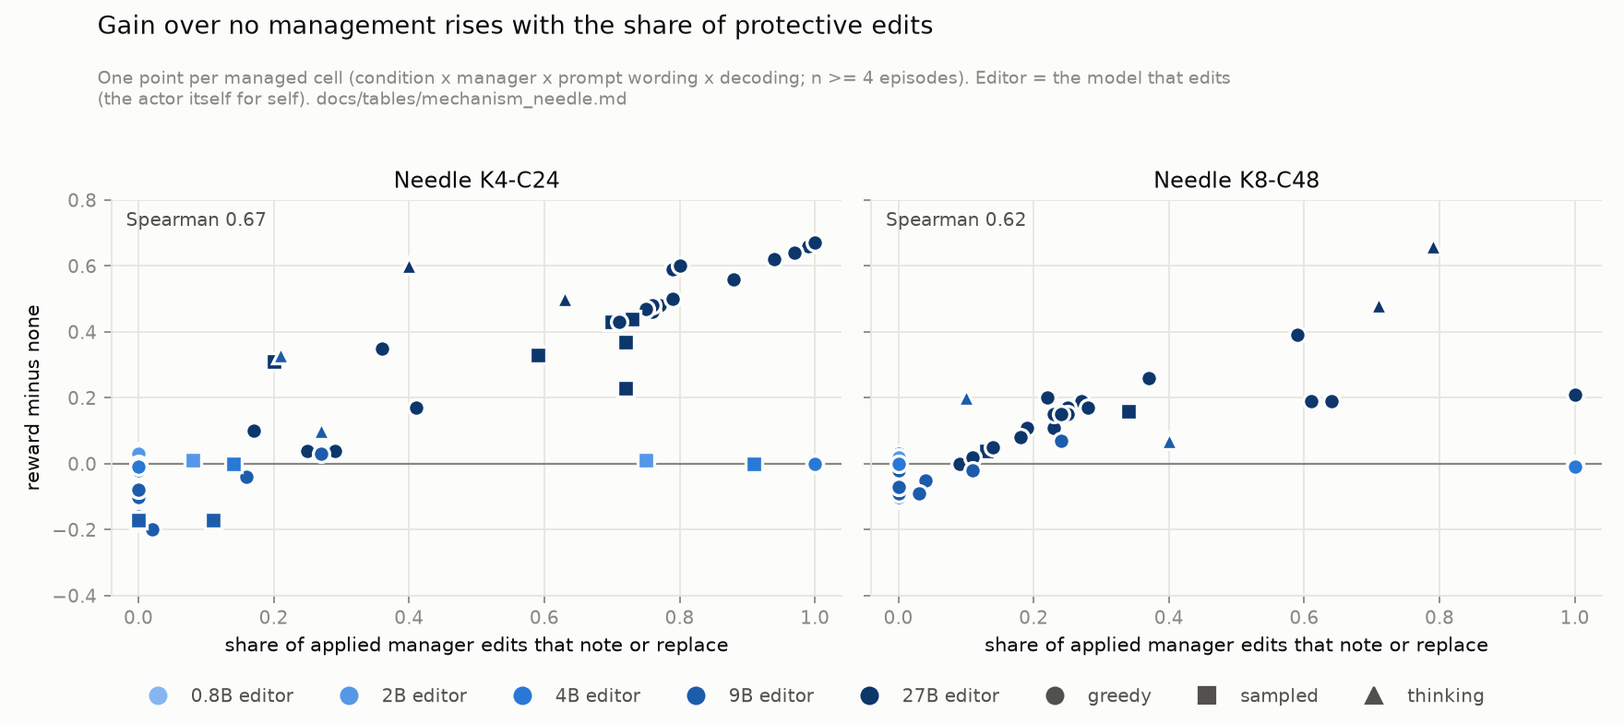
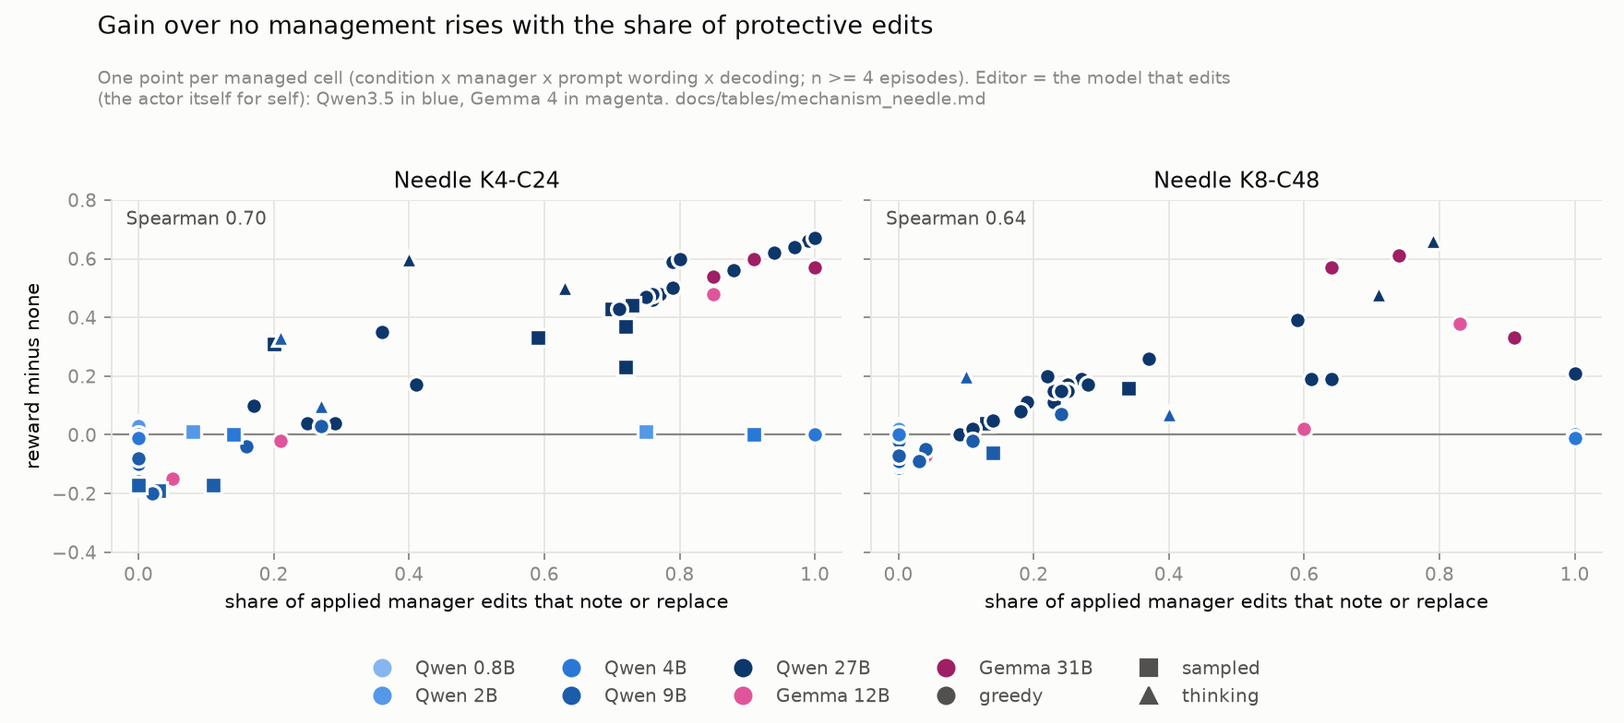
Score round 31: Gemma 4 manager ladder, G1-G5 confirmed
Gemma 4 31B helps the 2B actor under all three wordings at both levels
(+0.54 to +0.60 at K4-C24, +0.33 to +0.61 at K8-C48); the 12B does not by
the registered median rule, but helps under para3 (+0.48 / +0.38, 8/0).
Gain still tracks the protective share with both families pooled
(Spearman 0.70 / 0.64). Adds finding 10, the v4 verdicts, the episodes to
all tables, and Gemma to the mechanism figure. Smoke runs are kept out
of the ladder cells (runs_smoke/, git-ignored).

diff --git a/scripts/plot_mechanism.py b/scripts/plot_mechanism.py
@@ -3,8 +3,9 @@
 Usage: python scripts/plot_mechanism.py OUT.png
 Reads docs/tables/mechanism_needle.md (built by scripts/mechanism_table.py). x = share of applied
 manager events that `note` or `replace` (keep needles while removing their block), y = mean reward -
-`none`. Color = size of the model that edits (the actor itself for `self`), an ordinal blue ramp;
-shape = decoding (greedy, sampled, manager thinking). Cells with n < 4 or no applied edit are left out.
+`none`. Color = the model that edits (the actor itself for `self`): Qwen3.5 sizes on an ordinal blue
+ramp, Gemma 4 sizes on a magenta pair; shape = decoding (greedy, sampled, manager thinking). Cells
+with n < 4 or no applied edit are left out.
 """
 
 import sys
@@ -18,9 +19,17 @@ from matplotlib.lines import Line2D
 from mechanism_table import LEVELS
 
 INK, SECONDARY, MUTED, GRID, SURFACE = "#0b0b0b", "#52514e", "#898781", "#e6e5e0", "#fcfcfb"
-RAMP = {"0.8B": "#86b6ef", "2B": "#5598e7", "4B": "#2a78d6", "9B": "#1c5cab", "27B": "#0d366b"}
+RAMP = {"0.8B": "#86b6ef", "2B": "#5598e7", "4B": "#2a78d6", "9B": "#1c5cab", "27B": "#0d366b",
+        "Gemma 12B": "#e0559a", "Gemma 31B": "#9e1f63"}  # fmt: skip
 SHAPES = {"greedy": "o", "sampled": "s", "thinking": "^"}
 TABLE = "docs/tables/mechanism_needle.md"
+
+
+def editor_label(editor):
+    """'Qwen3.5-27B-FP8' -> '27B'; 'gemma-4-31B-it' -> 'Gemma 31B'."""
+    if editor.startswith("gemma-4-"):
+        return "Gemma " + editor.removeprefix("gemma-4-").removesuffix("-it")
+    return editor.removeprefix("Qwen3.5-").removesuffix("-FP8")
 
 
 def cells(path=TABLE):
@@ -38,7 +47,7 @@ def cells(path=TABLE):
         out.append(
             {
                 "level": level,
-                "size": editor.removeprefix("Qwen3.5-").removesuffix("-FP8"),
+                "size": editor_label(editor),
                 "style": "thinking" if version.endswith("+think") else decoding,
                 "gain": float(c[8]),
                 "protective": float(c[9]),
@@ -79,16 +88,16 @@ for ax, level in zip(axes, LEVELS, strict=True):
 axes[0].set_ylabel("reward minus none", fontsize=9.5, color=INK)
 
 legend = [
-    Line2D([], [], marker="o", ls="none", ms=8, color=c, label=f"{s} editor")
+    Line2D([], [], marker="o", ls="none", ms=8, color=c, label=s if "Gemma" in s else f"Qwen {s}")
     for s, c in RAMP.items()
 ] + [Line2D([], [], marker=m, ls="none", ms=8, color=SECONDARY, label=s) for s, m in SHAPES.items()]
-fig.legend(handles=legend, loc="lower center", ncol=8, frameon=False, fontsize=9,
+fig.legend(handles=legend, loc="lower center", ncol=5, frameon=False, fontsize=9,
            labelcolor=SECONDARY, bbox_to_anchor=(0.5, 0.0))  # fmt: skip
 fig.suptitle("Gain over no management rises with the share of protective edits", fontsize=12,
              color=INK, x=0.06, ha="left")  # fmt: skip
 fig.text(0.06, 0.905, "One point per managed cell (condition x manager x prompt wording x decoding; "
-         "n >= 4 episodes). Editor = the model that edits\n(the actor itself for self). "
-         "docs/tables/mechanism_needle.md", fontsize=8.5, color=MUTED, ha="left", va="top")  # fmt: skip
-fig.tight_layout(rect=(0, 0.06, 1, 0.86))
+         "n >= 4 episodes). Editor = the model that edits\n(the actor itself for self): Qwen3.5 "
+         "in blue, Gemma 4 in magenta. docs/tables/mechanism_needle.md", fontsize=8.5, color=MUTED, ha="left", va="top")  # fmt: skip
+fig.tight_layout(rect=(0, 0.12, 1, 0.86))
 fig.savefig(sys.argv[1], dpi=160, facecolor=SURFACE)
 print("wrote", sys.argv[1])

diff --git a/docs/results.md b/docs/results.md
@@ -8,7 +8,7 @@ and `peer_<size>` (a fixed manager of another size; mainly `peer_27b`). Managers
 (zero-shot). Each cell has 8 seeds (42–49) unless noted; differences are paired on the same instance.
 Greedy decoding with thinking off unless noted.
 
-Sources: `docs/tables/episodes_vllm.csv` (2,936 episodes), `docs/tables/h200_bf16_pooled.md` (greedy
+Sources: `docs/tables/episodes_vllm.csv` (3,066 episodes), `docs/tables/h200_bf16_pooled.md` (greedy
 grid), `docs/tables/decoding_ablation.md` (greedy vs sampled), `docs/tables/cost_needle.md` (compute
 per episode), `docs/tables/termination_needle.md` (how episodes end; reward = delivered × kept),
 `docs/figures/`. Run log: `CLAUDE.md`.
@@ -104,7 +104,7 @@ points are in "Limits" at the end.
 
 6. **Pre-registered validation: v1 had none falsified, most informative tests inconclusive; v2 had
    two falsified by the 27B actor's output-cap loop; v3 (a replay probe of that loop) had one
-   falsified.** Ten predictions were committed (`docs/preregistration.md`, tag `prereg-v1`) before new seeds (50–65)
+   falsified; v4 (the Gemma 4 ladder) had all five confirmed.** Ten predictions were committed (`docs/preregistration.md`, tag `prereg-v1`) before new seeds (50–65)
    and two held-out levels: 7 confirmed, 3 inconclusive, 0 falsified
    (`docs/preregistration-results.md`). Five were structural guards that could hardly fail (P2: `self`
    equals `none`; P3/P6: `none` is 0 at KV R1000 by construction; P7: archived needles cannot count
@@ -146,6 +146,19 @@ points are in "Limits" at the end.
    - Exploratory: a reminder that names the output cap gets 9/16 replies out. None of the
      pre-listed fixes removes the loop, so no P11b episode run follows; only more output room does,
      and that changes the benchmark's 2,048-token reserve.
+
+   Pre-registration v4 (`docs/preregistration-v4.md`, round 31, Gemma 4 managers; finding 10) had all
+   five predictions confirmed:
+   - **G1 confirmed:** the 31B's K4-C24 median over wordings is +0.57; sign p < 0.05 in 2 of 3
+     wordings (`para3` 7/1, p = 0.07).
+   - **G2 confirmed:** the 31B's K8-C48 median is +0.57.
+   - **G3 confirmed as registered:** the 12B's median is −0.02 (K4) and +0.02 (K8). The median rule
+     hides the `para3` cell, where the 12B gains +0.48 / +0.38 (8/0). The falsification rule needed
+     two such wordings.
+   - **G4 confirmed:** with Gemma cells pooled in, Spearman(protective share, gain) is 0.70 (72
+     cells) and 0.64 (61).
+   - **G5 confirmed:** the 31B is above the 12B in protective share in 6 of 6 wording × level pairs,
+     and in reward in 5 of 6 (K8 `para3`: 0.48 vs 0.53).
 
 7. **Manager-size ladder: without thinking only the 27B manager helps, under seven prompt wordings;
    with thinking both 9B and 27B help, and 27B stays ahead.** Needle, greedy, 8 seeds, `none` rerun
@@ -282,9 +295,9 @@ points are in "Limits" at the end.
 9. **Across every managed cell, the gain over `none` tracks how often the manager protects needles
    when it edits.** For each Needle cell (condition × manager × prompt wording × decoding, n ≥ 4),
    the share of applied manager events that `note` or `replace` (the two ways to keep needles while
-   removing their block) correlates with reward − `none`: Spearman 0.67 over 65 cells at K4-C24 and
-   0.62 over 54 at K8-C48 (`docs/tables/mechanism_needle.md`,
-   `docs/figures/needle_protective_vs_gain.png`). The 27B cells lie close to one line, from
+   removing their block) correlates with reward − `none`: Spearman 0.67 over 65 Qwen cells at K4-C24
+   and 0.62 over 54 at K8-C48, and 0.70 over 72 / 0.64 over 61 with the Gemma cells added (finding
+   10; `docs/tables/mechanism_needle.md`, `docs/figures/needle_protective_vs_gain.png`). The 27B cells lie close to one line, from
    `example` (0.25 protective, +0.04) to `para3` (1.00, +0.67); 9B and smaller managers sit at 0–0.04
    protective. Protecting is necessary, not sufficient: the 4B self-manager and the 0.8B `peer_same`
    add notes but never delete (0 delete events), so every episode ends at the budget wall and they
@@ -293,6 +306,41 @@ points are in "Limits" at the end.
    block's needles were noted in an earlier event, so it may understate protection there.
    Paired differences with seed-level bootstrap CIs for every cell are in
    `docs/tables/paired_needle.md`.
+
+10. **A second manager family (Gemma 4) replicates the size ordering and the mechanism, but its
+    mid-size manager helps under one of three wordings.** Gemma 4 12B and 31B as fixed managers for
+    the 2B actor, Needle, greedy, thinking off, 8 seeds, edit-v8 / `para3` / `para4` (round 31,
+    pre-registration v4). Reward, with `peer` − `none` paired by seed:
+
+    | manager | wording | K4-C24 | K8-C48 | protective share (K4 / K8) |
+    |---|---|---|---|---|
+    | Gemma 31B | v8 | 0.94, +0.60 (8/0) | 0.71, +0.57 (8/0) | 0.91 / 0.64 |
+    | Gemma 31B | `para3` | 0.90, +0.57 (7/1) | 0.48, +0.33 (7/1) | 1.00 / 0.91 |
+    | Gemma 31B | `para4` | 0.87, +0.54 (8/0) | 0.75, +0.61 (8/0) | 0.85 / 0.74 |
+    | Gemma 12B | v8 | 0.32, −0.02 (4/4) | 0.16, +0.02 (1/0) | 0.21 / 0.60 |
+    | Gemma 12B | `para3` | 0.82, +0.48 (8/0) | 0.53, +0.38 (8/0) | 0.85 / 0.83 |
+    | Gemma 12B | `para4` | 0.19, −0.15 (0/7) | 0.08, −0.07 (1/6) | 0.05 / 0.04 |
+
+    - **The largest manager helps under every wording, at both levels.** At K8-C48 the Gemma 31B is
+      far above the Qwen 27B without thinking under the same three wordings: +0.57 / +0.33 / +0.61
+      against +0.15 / +0.21 / +0.05.
+    - **The 12B helps only under `para3`.** There it protects in 0.85 of applied events and gains
+      +0.48 (K4) / +0.38 (K8), 8/0 seeds. Under v8 it mostly deletes without notes (19 of 49 K4
+      events in the `{"edits": {...}}` form), and under `para4` it almost never protects and hurts.
+      The Qwen 9B gained at most +0.07 under any of seven wordings. So the size at which a manager starts
+      to protect depends on the family and the wording, while the 31B and 27B tops are robust.
+    - **Mechanism.** At K4-C24 the six Gemma cells order almost exactly by protective share
+      (Spearman 0.93). At K8-C48 they order less tightly (0.49), because the most protective cells
+      (`para3`) free too little and hit the budget wall in 6 and 4 of 8 episodes. Pooled with Qwen the
+      correlation rises slightly (finding 9). Where the 12B protects, it gains like a 27B or 31B.
+    - **The actor stays mostly stable.** In 1 of 96 episodes the 2B actor loops on replies cut at
+      2,048 (12B `para4`, K8). The heavy loops in the smoke tests did not recur at this scale.
+    - **Reply quality varies.** Up to 0.52 of a cell's manager events fail to parse (12B v8 at
+      K8-C48, 12 of 23, none of them cut at the cap). The 31B `para3` cell at K8 has 18 of 71
+      replies cut at the 4,096 cap.
+    - **Cost.** Only GPU-seconds can be compared, since there is no FLOPs term for Gemma's
+      sliding-window layers. The 31B costs 105–320 s per episode at K4-C24 and 459–806 s at K8-C48,
+      against 90 s and 281 s for the Qwen 27B manager.
 
 ## Limits
 

diff --git a/docs/tables/termination_needle.md b/docs/tables/termination_needle.md
@@ -10,7 +10,7 @@ ends at `max_steps` with the last 5 actor replies all capped.
 Managed episodes (every condition except `none`), by actor:
 
 - Qwen3.5-0.8B: 3/144 managed episodes end at `max_steps`, 0 of them in a cap loop; 13/144 have at least one capped actor reply.
-- Qwen3.5-2B: 1/448 managed episodes end at `max_steps`, 0 of them in a cap loop; 59/448 have at least one capped actor reply.
+- Qwen3.5-2B: 8/546 managed episodes end at `max_steps`, 1 of them in a cap loop; 98/546 have at least one capped actor reply.
 - Qwen3.5-4B: 6/216 managed episodes end at `max_steps`, 5 of them in a cap loop; 10/216 have at least one capped actor reply.
 - Qwen3.5-9B: 0/113 managed episodes end at `max_steps`, 0 of them in a cap loop; 1/113 have at least one capped actor reply.
 - Qwen3.5-27B: 47/136 managed episodes end at `max_steps`, 31 of them in a cap loop; 116/136 have at least one capped actor reply.
@@ -43,10 +43,13 @@ Managed episodes (every condition except `none`), by actor:
 | K4-C24 | Qwen3.5-27B-FP8 | none | - | - | greedy | 4 | 0.29 | 0.29 | 1.00 | 0 | 4 | 0 | 0 | 0.00 | 0 | 0 |
 | K4-C24 | Qwen3.5-27B-FP8 | peer_same | Qwen3.5-27B-FP8 | edit-v7 | greedy | 4 | 0.90 | 1.00 | 0.90 | 4 | 0 | 0 | 0 | 0.46 | 4 | 0 |
 | K4-C24 | Qwen3.5-27B-FP8 | self | - | edit-v7 | greedy | 4 | 0.29 | 0.29 | 1.00 | 0 | 4 | 0 | 0 | 0.00 | 0 | 0 |
-| K4-C24 | Qwen3.5-2B | none | - | - | greedy | 128 | 0.33 | 0.33 | 1.00 | 0 | 128 | 0 | 0 | 0.01 | 1 | 0 |
+| K4-C24 | Qwen3.5-2B | none | - | - | greedy | 144 | 0.33 | 0.33 | 1.00 | 0 | 144 | 0 | 0 | 0.00 | 1 | 0 |
 | K4-C24 | Qwen3.5-2B | none | - | - | sampled | 16 | 0.33 | 0.33 | 1.00 | 0 | 16 | 0 | 0 | 0.00 | 0 | 0 |
+| K4-C24 | Qwen3.5-2B | peer_12b | gemma-4-12B-it | edit-v8 | greedy | 8 | 0.32 | 0.95 | 0.35 | 6 | 1 | 1 | 0 | 0.17 | 2 | 0 |
+| K4-C24 | Qwen3.5-2B | peer_12b | gemma-4-12B-it | edit-v8+para3 | greedy | 8 | 0.82 | 1.00 | 0.82 | 8 | 0 | 0 | 0 | 0.00 | 0 | 0 |
+| K4-C24 | Qwen3.5-2B | peer_12b | gemma-4-12B-it | edit-v8+para4 | greedy | 8 | 0.19 | 0.94 | 0.22 | 7 | 0 | 1 | 0 | 0.30 | 6 | 0 |
 | K4-C24 | Qwen3.5-2B | peer_27b | Qwen3.5-27B | edit-v7 | greedy | 4 | 1.00 | 1.00 | 1.00 | 4 | 0 | 0 | 0 | 0.00 | 0 | 0 |
-| K4-C24 | Qwen3.5-2B | peer_27b | Qwen3.5-27B | edit-v8 | greedy | 20 | 0.99 | 1.00 | 0.99 | 20 | 0 | 0 | 0 | 0.01 | 1 | 0 |
+| K4-C24 | Qwen3.5-2B | peer_27b | Qwen3.5-27B | edit-v8 | greedy | 22 | 0.99 | 1.00 | 0.99 | 22 | 0 | 0 | 0 | 0.01 | 1 | 0 |
 | K4-C24 | Qwen3.5-2B | peer_27b | Qwen3.5-27B | edit-v8 | sampled | 8 | 0.76 | 1.00 | 0.76 | 8 | 0 | 0 | 0 | 0.00 | 0 | 0 |
 | K4-C24 | Qwen3.5-2B | peer_27b | Qwen3.5-27B | edit-v8+example | greedy | 8 | 0.38 | 1.00 | 0.38 | 8 | 0 | 0 | 0 | 0.00 | 0 | 0 |
 | K4-C24 | Qwen3.5-2B | peer_27b | Qwen3.5-27B | edit-v8+mustnote | greedy | 8 | 0.95 | 1.00 | 0.95 | 8 | 0 | 0 | 0 | 0.00 | 0 | 0 |
@@ -58,6 +61,9 @@ Managed episodes (every condition except `none`), by actor:
 | K4-C24 | Qwen3.5-2B | peer_27b | Qwen3.5-27B-FP8 | edit-v5 | greedy | 4 | 0.79 | 1.00 | 0.79 | 4 | 0 | 0 | 0 | 0.11 | 1 | 0 |
 | K4-C24 | Qwen3.5-2B | peer_27b | Qwen3.5-27B-FP8 | edit-v6 | greedy | 4 | 0.38 | 1.00 | 0.38 | 4 | 0 | 0 | 0 | 0.11 | 1 | 0 |
 | K4-C24 | Qwen3.5-2B | peer_27b | Qwen3.5-27B-FP8 | edit-v7 | greedy | 8 | 0.97 | 1.00 | 0.97 | 8 | 0 | 0 | 0 | 0.00 | 0 | 0 |
+| K4-C24 | Qwen3.5-2B | peer_31b | gemma-4-31B-it | edit-v8 | greedy | 8 | 0.94 | 1.00 | 0.94 | 8 | 0 | 0 | 0 | 0.12 | 2 | 0 |
+| K4-C24 | Qwen3.5-2B | peer_31b | gemma-4-31B-it | edit-v8+para3 | greedy | 8 | 0.90 | 0.91 | 0.99 | 7 | 0 | 1 | 0 | 0.18 | 7 | 0 |
+| K4-C24 | Qwen3.5-2B | peer_31b | gemma-4-31B-it | edit-v8+para4 | greedy | 8 | 0.87 | 1.00 | 0.87 | 8 | 0 | 0 | 0 | 0.00 | 0 | 0 |
 | K4-C24 | Qwen3.5-2B | peer_4b | Qwen3.5-4B | edit-v8 | greedy | 8 | 0.34 | 0.66 | 0.53 | 1 | 7 | 0 | 0 | 0.00 | 0 | 0 |
 | K4-C24 | Qwen3.5-2B | peer_9b | Qwen3.5-9B | edit-v8 | greedy | 8 | 0.16 | 0.92 | 0.24 | 7 | 1 | 0 | 0 | 0.14 | 5 | 0 |
 | K4-C24 | Qwen3.5-2B | peer_9b | Qwen3.5-9B | edit-v8 | sampled | 8 | 0.14 | 1.00 | 0.14 | 8 | 0 | 0 | 0 | 0.03 | 2 | 0 |
@@ -120,8 +126,11 @@ Managed episodes (every condition except `none`), by actor:
 | K8-C48 | Qwen3.5-27B | self | - | edit-v7 | greedy | 4 | 0.15 | 0.15 | 1.00 | 0 | 4 | 0 | 0 | 0.35 | 1 | 0 |
 | K8-C48 | Qwen3.5-27B | self | - | edit-v8 | greedy | 8 | 0.14 | 1.00 | 0.14 | 7 | 0 | 1 | 0 | 0.31 | 8 | 0 |
 | K8-C48 | Qwen3.5-27B | self | - | edit-v8 | sampled | 16 | 0.19 | 0.80 | 0.32 | 5 | 0 | 11 | 0 | 0.71 | 16 | 7 |
-| K8-C48 | Qwen3.5-2B | none | - | - | greedy | 112 | 0.15 | 0.15 | 1.00 | 0 | 112 | 0 | 0 | 0.00 | 0 | 0 |
+| K8-C48 | Qwen3.5-2B | none | - | - | greedy | 128 | 0.15 | 0.15 | 1.00 | 0 | 128 | 0 | 0 | 0.00 | 0 | 0 |
 | K8-C48 | Qwen3.5-2B | none | - | - | sampled | 8 | 0.15 | 0.15 | 1.00 | 0 | 8 | 0 | 0 | 0.00 | 0 | 0 |
+| K8-C48 | Qwen3.5-2B | peer_12b | gemma-4-12B-it | edit-v8 | greedy | 8 | 0.16 | 0.20 | 0.90 | 0 | 8 | 0 | 0 | 0.00 | 0 | 0 |
+| K8-C48 | Qwen3.5-2B | peer_12b | gemma-4-12B-it | edit-v8+para3 | greedy | 8 | 0.53 | 0.68 | 0.75 | 2 | 6 | 0 | 0 | 0.02 | 1 | 0 |
+| K8-C48 | Qwen3.5-2B | peer_12b | gemma-4-12B-it | edit-v8+para4 | greedy | 8 | 0.08 | 0.79 | 0.12 | 5 | 1 | 2 | 0 | 0.42 | 6 | 1 |
 | K8-C48 | Qwen3.5-2B | peer_27b | Qwen3.5-27B | edit-v7 | greedy | 4 | 0.33 | 1.00 | 0.33 | 4 | 0 | 0 | 0 | 0.00 | 0 | 0 |
 | K8-C48 | Qwen3.5-2B | peer_27b | Qwen3.5-27B | edit-v8 | greedy | 4 | 0.29 | 1.00 | 0.29 | 4 | 0 | 0 | 0 | 0.00 | 0 | 0 |
 | K8-C48 | Qwen3.5-2B | peer_27b | Qwen3.5-27B | edit-v8+example | greedy | 8 | 0.16 | 1.00 | 0.16 | 8 | 0 | 0 | 0 | 0.00 | 0 | 0 |
@@ -134,6 +143,9 @@ Managed episodes (every condition except `none`), by actor:
 | K8-C48 | Qwen3.5-2B | peer_27b | Qwen3.5-27B-FP8 | edit-v5 | greedy | 4 | 0.26 | 1.00 | 0.26 | 4 | 0 | 0 | 0 | 0.00 | 0 | 0 |
 | K8-C48 | Qwen3.5-2B | peer_27b | Qwen3.5-27B-FP8 | edit-v6 | greedy | 4 | 0.17 | 1.00 | 0.17 | 4 | 0 | 0 | 0 | 0.00 | 0 | 0 |
 | K8-C48 | Qwen3.5-2B | peer_27b | Qwen3.5-27B-FP8 | edit-v7 | greedy | 8 | 0.32 | 1.00 | 0.32 | 8 | 0 | 0 | 0 | 0.00 | 0 | 0 |
+| K8-C48 | Qwen3.5-2B | peer_31b | gemma-4-31B-it | edit-v8 | greedy | 8 | 0.71 | 1.00 | 0.71 | 8 | 0 | 0 | 0 | 0.10 | 3 | 0 |
+| K8-C48 | Qwen3.5-2B | peer_31b | gemma-4-31B-it | edit-v8+para3 | greedy | 8 | 0.48 | 0.53 | 0.93 | 2 | 4 | 2 | 0 | 0.14 | 6 | 0 |
+| K8-C48 | Qwen3.5-2B | peer_31b | gemma-4-31B-it | edit-v8+para4 | greedy | 8 | 0.75 | 1.00 | 0.75 | 8 | 0 | 0 | 0 | 0.11 | 6 | 0 |
 | K8-C48 | Qwen3.5-2B | peer_4b | Qwen3.5-4B | edit-v8 | greedy | 8 | 0.17 | 0.23 | 0.77 | 0 | 8 | 0 | 0 | 0.00 | 0 | 0 |
 | K8-C48 | Qwen3.5-2B | peer_9b | Qwen3.5-9B | edit-v8 | greedy | 8 | 0.06 | 1.00 | 0.06 | 8 | 0 | 0 | 0 | 0.04 | 3 | 0 |
 | K8-C48 | Qwen3.5-2B | peer_9b | Qwen3.5-9B | edit-v8 | sampled | 8 | 0.09 | 0.97 | 0.09 | 6 | 1 | 1 | 0 | 0.02 | 2 | 0 |

diff --git a/docs/tables/mechanism_needle.md b/docs/tables/mechanism_needle.md
@@ -6,8 +6,8 @@ protective = applied events with a `note` or `replace`; unprotected = applied ev
 delete with neither; shares of applied events. empty = events with nothing applied, share of
 all events. gain = reward - `none` (same level, actor, decoding).
 
-- K4-C24: Spearman(protective share, gain) = 0.67 over 66 cells with n >= 4 and at least one applied event.
-- K8-C48: Spearman(protective share, gain) = 0.62 over 55 cells with n >= 4 and at least one applied event.
+- K4-C24: Spearman(protective share, gain) = 0.70 over 72 cells with n >= 4 and at least one applied event.
+- K8-C48: Spearman(protective share, gain) = 0.64 over 61 cells with n >= 4 and at least one applied event.
 
 | level | actor | condition | manager | version | decoding | n | reward | gain | protective | unprotected | empty | events |
 |---|---|---|---|---|---|---|---|---|---|---|---|---|
@@ -30,8 +30,11 @@ all events. gain = reward - `none` (same level, actor, decoding).
 | K4-C24 | Qwen3.5-27B | self | - | edit-v8 | sampled | 8 | 0.60 | +0.31 | 0.20 | 0.80 | 0.05 | 57 |
 | K4-C24 | Qwen3.5-27B-FP8 | peer_same | Qwen3.5-27B-FP8 | edit-v7 | greedy | 4 | 0.90 | +0.60 | 0.80 | 0.20 | 0.00 | 30 |
 | K4-C24 | Qwen3.5-27B-FP8 | self | - | edit-v7 | greedy | 4 | 0.29 | +0.00 | - | - | 1.00 | 8 |
+| K4-C24 | Qwen3.5-2B | peer_12b | gemma-4-12B-it | edit-v8 | greedy | 8 | 0.32 | -0.02 | 0.21 | 0.79 | 0.14 | 49 |
+| K4-C24 | Qwen3.5-2B | peer_12b | gemma-4-12B-it | edit-v8+para3 | greedy | 8 | 0.82 | +0.48 | 0.85 | 0.15 | 0.11 | 37 |
+| K4-C24 | Qwen3.5-2B | peer_12b | gemma-4-12B-it | edit-v8+para4 | greedy | 8 | 0.19 | -0.15 | 0.05 | 0.95 | 0.00 | 44 |
 | K4-C24 | Qwen3.5-2B | peer_27b | Qwen3.5-27B | edit-v7 | greedy | 4 | 1.00 | +0.67 | 1.00 | 0.00 | 0.00 | 16 |
-| K4-C24 | Qwen3.5-2B | peer_27b | Qwen3.5-27B | edit-v8 | greedy | 20 | 0.99 | +0.66 | 0.99 | 0.01 | 0.00 | 81 |
+| K4-C24 | Qwen3.5-2B | peer_27b | Qwen3.5-27B | edit-v8 | greedy | 22 | 0.99 | +0.66 | 0.99 | 0.01 | 0.00 | 89 |
 | K4-C24 | Qwen3.5-2B | peer_27b | Qwen3.5-27B | edit-v8 | sampled | 8 | 0.76 | +0.43 | 0.70 | 0.30 | 0.00 | 33 |
 | K4-C24 | Qwen3.5-2B | peer_27b | Qwen3.5-27B | edit-v8+example | greedy | 8 | 0.38 | +0.04 | 0.25 | 0.75 | 0.00 | 32 |
 | K4-C24 | Qwen3.5-2B | peer_27b | Qwen3.5-27B | edit-v8+mustnote | greedy | 8 | 0.95 | +0.62 | 0.94 | 0.06 | 0.00 | 32 |
@@ -43,6 +46,9 @@ all events. gain = reward - `none` (same level, actor, decoding).
 | K4-C24 | Qwen3.5-2B | peer_27b | Qwen3.5-27B-FP8 | edit-v5 | greedy | 4 | 0.79 | +0.46 | 0.76 | 0.24 | 0.00 | 17 |
 | K4-C24 | Qwen3.5-2B | peer_27b | Qwen3.5-27B-FP8 | edit-v6 | greedy | 4 | 0.38 | +0.04 | 0.29 | 0.71 | 0.00 | 17 |
 | K4-C24 | Qwen3.5-2B | peer_27b | Qwen3.5-27B-FP8 | edit-v7 | greedy | 8 | 0.97 | +0.64 | 0.97 | 0.03 | 0.00 | 32 |
+| K4-C24 | Qwen3.5-2B | peer_31b | gemma-4-31B-it | edit-v8 | greedy | 8 | 0.94 | +0.60 | 0.91 | 0.09 | 0.21 | 43 |
+| K4-C24 | Qwen3.5-2B | peer_31b | gemma-4-31B-it | edit-v8+para3 | greedy | 8 | 0.90 | +0.57 | 1.00 | 0.00 | 0.03 | 36 |
+| K4-C24 | Qwen3.5-2B | peer_31b | gemma-4-31B-it | edit-v8+para4 | greedy | 8 | 0.87 | +0.54 | 0.85 | 0.15 | 0.00 | 33 |
 | K4-C24 | Qwen3.5-2B | peer_4b | Qwen3.5-4B | edit-v8 | greedy | 8 | 0.34 | +0.01 | 0.00 | 1.00 | 0.09 | 87 |
 | K4-C24 | Qwen3.5-2B | peer_9b | Qwen3.5-9B | edit-v8 | greedy | 8 | 0.16 | -0.18 | 0.00 | 1.00 | 0.40 | 48 |
 | K4-C24 | Qwen3.5-2B | peer_9b | Qwen3.5-9B | edit-v8 | sampled | 8 | 0.14 | -0.19 | 0.03 | 0.97 | 0.08 | 39 |
@@ -96,6 +102,9 @@ all events. gain = reward - `none` (same level, actor, decoding).
 | K8-C48 | Qwen3.5-27B | self | - | edit-v7 | greedy | 4 | 0.15 | +0.00 | 1.00 | 0.00 | 0.95 | 19 |
 | K8-C48 | Qwen3.5-27B | self | - | edit-v8 | greedy | 8 | 0.14 | -0.00 | 0.09 | 0.91 | 0.00 | 113 |
 | K8-C48 | Qwen3.5-27B | self | - | edit-v8 | sampled | 16 | 0.19 | +0.04 | 0.13 | 0.87 | 0.02 | 302 |
+| K8-C48 | Qwen3.5-2B | peer_12b | gemma-4-12B-it | edit-v8 | greedy | 8 | 0.16 | +0.02 | 0.60 | 0.40 | 0.57 | 23 |
+| K8-C48 | Qwen3.5-2B | peer_12b | gemma-4-12B-it | edit-v8+para3 | greedy | 8 | 0.53 | +0.38 | 0.83 | 0.17 | 0.33 | 78 |
+| K8-C48 | Qwen3.5-2B | peer_12b | gemma-4-12B-it | edit-v8+para4 | greedy | 8 | 0.08 | -0.07 | 0.04 | 0.96 | 0.15 | 98 |
 | K8-C48 | Qwen3.5-2B | peer_27b | Qwen3.5-27B | edit-v7 | greedy | 4 | 0.33 | +0.19 | 0.27 | 0.73 | 0.00 | 44 |
 | K8-C48 | Qwen3.5-2B | peer_27b | Qwen3.5-27B | edit-v8 | greedy | 4 | 0.29 | +0.15 | 0.23 | 0.77 | 0.00 | 44 |
 | K8-C48 | Qwen3.5-2B | peer_27b | Qwen3.5-27B | edit-v8+example | greedy | 8 | 0.16 | +0.02 | 0.11 | 0.89 | 0.00 | 74 |
@@ -108,6 +117,9 @@ all events. gain = reward - `none` (same level, actor, decoding).
 | K8-C48 | Qwen3.5-2B | peer_27b | Qwen3.5-27B-FP8 | edit-v5 | greedy | 4 | 0.26 | +0.11 | 0.19 | 0.81 | 0.00 | 42 |
 | K8-C48 | Qwen3.5-2B | peer_27b | Qwen3.5-27B-FP8 | edit-v6 | greedy | 4 | 0.17 | +0.02 | 0.11 | 0.89 | 0.00 | 36 |
 | K8-C48 | Qwen3.5-2B | peer_27b | Qwen3.5-27B-FP8 | edit-v7 | greedy | 8 | 0.32 | +0.17 | 0.25 | 0.75 | 0.04 | 91 |
+| K8-C48 | Qwen3.5-2B | peer_31b | gemma-4-31B-it | edit-v8 | greedy | 8 | 0.71 | +0.57 | 0.64 | 0.36 | 0.12 | 112 |
+| K8-C48 | Qwen3.5-2B | peer_31b | gemma-4-31B-it | edit-v8+para3 | greedy | 8 | 0.48 | +0.33 | 0.91 | 0.09 | 0.35 | 71 |
+| K8-C48 | Qwen3.5-2B | peer_31b | gemma-4-31B-it | edit-v8+para4 | greedy | 8 | 0.75 | +0.61 | 0.74 | 0.26 | 0.03 | 107 |
 | K8-C48 | Qwen3.5-2B | peer_4b | Qwen3.5-4B | edit-v8 | greedy | 8 | 0.17 | +0.03 | 0.00 | 1.00 | 0.27 | 49 |
 | K8-C48 | Qwen3.5-2B | peer_9b | Qwen3.5-9B | edit-v8 | greedy | 8 | 0.06 | -0.09 | 0.00 | 1.00 | 0.08 | 79 |
 | K8-C48 | Qwen3.5-2B | peer_9b | Qwen3.5-9B | edit-v8 | sampled | 8 | 0.09 | -0.06 | 0.14 | 0.86 | 0.02 | 95 |

diff --git a/report/paper_outline.md b/report/paper_outline.md
@@ -5,17 +5,18 @@ that carries it; "pending" marks evidence still being run. Source of every numbe
 (finding numbers in brackets) and `docs/tables/`.
 
 **One-sentence claim.** A zero-shot LLM context editor helps a small actor only to the extent that it
-keeps needed content before deleting. In Qwen3.5, only the 27B does so reliably without reasoning, and
+keeps needed content before deleting. Without reasoning, only the largest manager of each family does
+so under every wording (Qwen3.5 27B, Gemma 4 31B); the Gemma 12B does under one of three wordings. And
 for small actors a rule that always does so beats every LLM manager at a fraction of the compute. (Not
 for the 27B actor: it restates every needle in each reply, and once management removes the context
 wall its replies hit the output cap and the stream stops; `docs/tables/termination_needle.md`.)
 
 | # | Section (pages) | Claim | Carried by | Status |
 |---|---|---|---|---|
-| 1 | Introduction (0.5) | Who edits a small actor's live context matters only through whether the edits preserve before deleting; capability, not role, decides it; external editing costs about T/(T−R) × the same model reading the stream. | Fig. 1: reward vs PFLOPs, Needle K4-C24 and K8-C48 (`docs/figures/needle_reward_vs_compute.png`). | exists, with the 27B + rule point; Gemma rows pending |
+| 1 | Introduction (0.5) | Who edits a small actor's live context matters only through whether the edits preserve before deleting; capability, not role, decides it; external editing costs about T/(T−R) × the same model reading the stream. | Fig. 1: reward vs PFLOPs, Needle K4-C24 and K8-C48 (`docs/figures/needle_reward_vs_compute.png`). | exists, with the 27B + rule point; Gemma excluded (no FLOPs term for sliding-window layers; GPU-seconds in finding 10) |
 | 2 | Setup: Needle as a probe with a known policy (0.6) | Needle labels what to keep and a no-LLM rule scores 1.00 at every level, so managers are scored on executing a known policy. KV tests exact recall. Conditions separate role (self vs `peer_same`) from capability (`peer_same` vs fixed larger manager). | Table 1: conditions; rule 1.00 vs `none` 1.00 → 0.04 across levels [0]. | exists |
-| 3 | Who can execute it: the manager ladder (0.8) | Without thinking, only the 27B manager helps, under seven wordings (+0.02 to +0.67); 9B hurts; 4B and same-size do nothing. Thinking partly rescues 9B; 27B with thinking stays ahead. | Table 2: diff vs `none` with CIs (`docs/tables/paired_needle.md`), min/median/max over wordings, ± thinking [1, 7]. | exists; 9B sampled done (P13 confirmed); Gemma rows pending |
-| 4 | Why: preserve before delete (0.5) | Gain over `none` tracks the share of manager edits that note or replace: Spearman 0.67 / 0.62 over 119 cells. Necessary, not sufficient: managers that note but never delete hit the wall. | Fig. 2: `docs/figures/needle_protective_vs_gain.png`; event taxonomy (`docs/tables/mechanism_needle.md`) [9]. | exists; replay probe (identical inputs, Qwen + Gemma) pending |
+| 3 | Who can execute it: the manager ladder (0.8) | Without thinking, only the largest manager of each family helps under every wording: Qwen 27B under seven (+0.02 to +0.67), Gemma 4 31B under three (+0.54 to +0.60 at K4-C24, +0.33 to +0.61 at K8-C48). Gemma 12B helps only under `para3`; Qwen 9B hurts; 4B and same-size do nothing. Thinking partly rescues 9B; 27B with thinking stays ahead. | Table 2: diff vs `none` with CIs (`docs/tables/paired_needle.md`), min/median/max over wordings, ± thinking [1, 7]. | exists; 9B sampled done (P13 confirmed); Gemma rows done (round 31, G1-G5 confirmed) |
+| 4 | Why: preserve before delete (0.5) | Gain over `none` tracks the share of manager edits that note or replace, across two families: Spearman 0.70 / 0.64 over 133 cells (Qwen alone 0.67 / 0.62). Necessary, not sufficient: managers that note but never delete hit the wall. | Fig. 2: `docs/figures/needle_protective_vs_gain.png` (Qwen blue, Gemma magenta); event taxonomy (`docs/tables/mechanism_needle.md`) [9, 10]. | exists with Gemma; manager-side identical-input replay probe not run |
 | 5 | Same-size management and decoding (0.3) | Same-size management never helps ≤ 4B and hurts 9B. The 27B role effect (`peer_same` > `self`) holds under greedy at K4-C24, where both arms receive the whole stream; at K8-C48 and under sampling it is mixed with the 27B actor's output-cap loop. | Table 3: greedy vs sampled (`docs/tables/decoding_ablation.md`), delivered × kept split (`docs/tables/termination_needle.md`) [2, 4]. | exists |
 | 6 | Irreversibility (0.5) | Deletion destroys exact KV recall; archive-with-recall restores it and manager identity stops mattering; the limit becomes the actor's initiative to recall. Agrees with ARC, MemGPT, VISTA. | Table 4: delete vs archive [3, 5]. | exists |
 | 7 | Cost of external management (0.4) | Without prefix-cache hits a peer manager reads about S·T/(T−R) tokens (measured/predicted median 0.94); a 27B manager that keeps little reads each streamed token about once, so a small actor + 27B manager costs about the 27B reading the stream itself. The rule on the 2B actor is cheaper than both. | Eq. 1 + Table 5 (`docs/tables/cost_law_needle.md`, `docs/tables/cost_needle.md`) [8]. | exists; 27B + rule measured (P12 falsified: the K4 number is the output-cap loop) |

diff --git a/docs/tables/paired_needle.md b/docs/tables/paired_needle.md
@@ -25,8 +25,11 @@ sign test over seeds. Seeds share each level's layout, so CIs cover instance noi
 | K4-C24 | Qwen3.5-27B | self | - | edit-v8 | sampled | 8 | 8 | 0.60 | +0.31 | [+0.18, +0.44] | 7/0 | 0.016 |
 | K4-C24 | Qwen3.5-27B-FP8 | peer_same | Qwen3.5-27B-FP8 | edit-v7 | greedy | 4 | 4 | 0.90 | +0.60 | [+0.50, +0.71] | 4/0 | 0.125 |
 | K4-C24 | Qwen3.5-27B-FP8 | self | - | edit-v7 | greedy | 4 | 4 | 0.29 | +0.00 | [+0.00, +0.00] | 0/0 | 1.000 |
+| K4-C24 | Qwen3.5-2B | peer_12b | gemma-4-12B-it | edit-v8 | greedy | 8 | 8 | 0.32 | -0.02 | [-0.09, +0.06] | 4/4 | 1.000 |
+| K4-C24 | Qwen3.5-2B | peer_12b | gemma-4-12B-it | edit-v8+para3 | greedy | 8 | 8 | 0.82 | +0.48 | [+0.38, +0.59] | 8/0 | 0.008 |
+| K4-C24 | Qwen3.5-2B | peer_12b | gemma-4-12B-it | edit-v8+para4 | greedy | 8 | 8 | 0.19 | -0.15 | [-0.20, -0.08] | 0/7 | 0.016 |
 | K4-C24 | Qwen3.5-2B | peer_27b | Qwen3.5-27B | edit-v7 | greedy | 4 | 4 | 1.00 | +0.67 | [+0.67, +0.67] | 4/0 | 0.125 |
-| K4-C24 | Qwen3.5-2B | peer_27b | Qwen3.5-27B | edit-v8 | greedy | 20 | 20 | 0.99 | +0.66 | [+0.65, +0.67] | 20/0 | 0.000 |
+| K4-C24 | Qwen3.5-2B | peer_27b | Qwen3.5-27B | edit-v8 | greedy | 20 | 22 | 0.99 | +0.66 | [+0.65, +0.67] | 20/0 | 0.000 |
 | K4-C24 | Qwen3.5-2B | peer_27b | Qwen3.5-27B | edit-v8 | sampled | 8 | 8 | 0.76 | +0.43 | [+0.34, +0.51] | 8/0 | 0.008 |
 | K4-C24 | Qwen3.5-2B | peer_27b | Qwen3.5-27B | edit-v8+example | greedy | 8 | 8 | 0.38 | +0.04 | [+0.04, +0.04] | 8/0 | 0.008 |
 | K4-C24 | Qwen3.5-2B | peer_27b | Qwen3.5-27B | edit-v8+mustnote | greedy | 8 | 8 | 0.95 | +0.61 | [+0.56, +0.67] | 8/0 | 0.008 |
@@ -38,6 +41,9 @@ sign test over seeds. Seeds share each level's layout, so CIs cover instance noi
 | K4-C24 | Qwen3.5-2B | peer_27b | Qwen3.5-27B-FP8 | edit-v5 | greedy | 4 | 4 | 0.79 | +0.46 | [+0.30, +0.61] | 4/0 | 0.125 |
 | K4-C24 | Qwen3.5-2B | peer_27b | Qwen3.5-27B-FP8 | edit-v6 | greedy | 4 | 4 | 0.38 | +0.04 | [+0.04, +0.04] | 4/0 | 0.125 |
 | K4-C24 | Qwen3.5-2B | peer_27b | Qwen3.5-27B-FP8 | edit-v7 | greedy | 8 | 8 | 0.97 | +0.64 | [+0.59, +0.67] | 8/0 | 0.008 |
+| K4-C24 | Qwen3.5-2B | peer_31b | gemma-4-31B-it | edit-v8 | greedy | 8 | 8 | 0.94 | +0.60 | [+0.54, +0.66] | 8/0 | 0.008 |
+| K4-C24 | Qwen3.5-2B | peer_31b | gemma-4-31B-it | edit-v8+para3 | greedy | 8 | 8 | 0.90 | +0.57 | [+0.38, +0.67] | 7/1 | 0.070 |
+| K4-C24 | Qwen3.5-2B | peer_31b | gemma-4-31B-it | edit-v8+para4 | greedy | 8 | 8 | 0.87 | +0.54 | [+0.48, +0.61] | 8/0 | 0.008 |
 | K4-C24 | Qwen3.5-2B | peer_4b | Qwen3.5-4B | edit-v8 | greedy | 8 | 8 | 0.34 | +0.01 | [-0.01, +0.02] | 2/1 | 1.000 |
 | K4-C24 | Qwen3.5-2B | peer_9b | Qwen3.5-9B | edit-v8 | greedy | 8 | 8 | 0.16 | -0.18 | [-0.24, -0.11] | 0/7 | 0.016 |
 | K4-C24 | Qwen3.5-2B | peer_9b | Qwen3.5-9B | edit-v8 | sampled | 8 | 8 | 0.14 | -0.19 | [-0.22, -0.17] | 0/8 | 0.008 |
@@ -91,6 +97,9 @@ sign test over seeds. Seeds share each level's layout, so CIs cover instance noi
 | K8-C48 | Qwen3.5-27B | self | - | edit-v7 | greedy | 4 | 4 | 0.15 | +0.00 | [+0.00, +0.00] | 0/0 | 1.000 |
 | K8-C48 | Qwen3.5-27B | self | - | edit-v8 | greedy | 8 | 8 | 0.14 | -0.00 | [-0.03, +0.03] | 3/5 | 0.727 |
 | K8-C48 | Qwen3.5-27B | self | - | edit-v8 | sampled | 8 | 16 | 0.19 | +0.04 | [+0.01, +0.08] | 5/2 | 0.453 |
+| K8-C48 | Qwen3.5-2B | peer_12b | gemma-4-12B-it | edit-v8 | greedy | 8 | 8 | 0.16 | +0.02 | [+0.00, +0.05] | 1/0 | 1.000 |
+| K8-C48 | Qwen3.5-2B | peer_12b | gemma-4-12B-it | edit-v8+para3 | greedy | 8 | 8 | 0.53 | +0.38 | [+0.22, +0.57] | 8/0 | 0.008 |
+| K8-C48 | Qwen3.5-2B | peer_12b | gemma-4-12B-it | edit-v8+para4 | greedy | 8 | 8 | 0.08 | -0.07 | [-0.10, -0.02] | 1/6 | 0.125 |
 | K8-C48 | Qwen3.5-2B | peer_27b | Qwen3.5-27B | edit-v7 | greedy | 4 | 4 | 0.33 | +0.19 | [+0.19, +0.19] | 4/0 | 0.125 |
 | K8-C48 | Qwen3.5-2B | peer_27b | Qwen3.5-27B | edit-v8 | greedy | 4 | 4 | 0.29 | +0.15 | [+0.10, +0.23] | 4/0 | 0.125 |
 | K8-C48 | Qwen3.5-2B | peer_27b | Qwen3.5-27B | edit-v8+example | greedy | 8 | 8 | 0.16 | +0.02 | [+0.00, +0.04] | 6/2 | 0.289 |
@@ -103,6 +112,9 @@ sign test over seeds. Seeds share each level's layout, so CIs cover instance noi
 | K8-C48 | Qwen3.5-2B | peer_27b | Qwen3.5-27B-FP8 | edit-v5 | greedy | 4 | 4 | 0.26 | +0.11 | [+0.09, +0.14] | 4/0 | 0.125 |
 | K8-C48 | Qwen3.5-2B | peer_27b | Qwen3.5-27B-FP8 | edit-v6 | greedy | 4 | 4 | 0.17 | +0.02 | [+0.02, +0.02] | 4/0 | 0.125 |
 | K8-C48 | Qwen3.5-2B | peer_27b | Qwen3.5-27B-FP8 | edit-v7 | greedy | 8 | 8 | 0.32 | +0.17 | [+0.13, +0.22] | 8/0 | 0.008 |
+| K8-C48 | Qwen3.5-2B | peer_31b | gemma-4-31B-it | edit-v8 | greedy | 8 | 8 | 0.71 | +0.57 | [+0.52, +0.62] | 8/0 | 0.008 |
+| K8-C48 | Qwen3.5-2B | peer_31b | gemma-4-31B-it | edit-v8+para3 | greedy | 8 | 8 | 0.48 | +0.33 | [+0.18, +0.48] | 7/1 | 0.070 |
+| K8-C48 | Qwen3.5-2B | peer_31b | gemma-4-31B-it | edit-v8+para4 | greedy | 8 | 8 | 0.75 | +0.61 | [+0.52, +0.69] | 8/0 | 0.008 |
 | K8-C48 | Qwen3.5-2B | peer_4b | Qwen3.5-4B | edit-v8 | greedy | 8 | 8 | 0.17 | +0.03 | [+0.02, +0.03] | 7/0 | 0.016 |
 | K8-C48 | Qwen3.5-2B | peer_9b | Qwen3.5-9B | edit-v8 | greedy | 8 | 8 | 0.06 | -0.09 | [-0.10, -0.08] | 0/8 | 0.008 |
 | K8-C48 | Qwen3.5-2B | peer_9b | Qwen3.5-9B | edit-v8 | sampled | 8 | 8 | 0.09 | -0.06 | [-0.09, -0.03] | 1/7 | 0.070 |

diff --git a/docs/tables/cost_needle.md b/docs/tables/cost_needle.md
@@ -16,10 +16,10 @@ cached tokens (rounds 25-28). `none` ends at the budget wall after ~7 of 24-48 o
 | K4-C24 | 0.8B | peer_same | 0.8B | edit-v8 | 8 | 0.33 | 0.07 | 0.20 | 0.27 | 74% | 0.47 | 78% | 0% | 1 | 2 | 31069247 |
 | K4-C24 | 0.8B | peer_4b | 4B | edit-v8 | 8 | 0.24 | 0.27 | 3.98 | 4.25 | 94% | 4.93 | 78% | 0% | 10 | 12 | 31069250 |
 | K4-C24 | 0.8B | peer_9b | 9B | edit-v8 | 8 | 0.16 | 0.19 | 2.00 | 2.19 | 91% | 2.61 | 73% | 0% | 2 | 7 | 31069247 |
-| K4-C24 | 2B | none | - | - | 112 | 0.33 | 0.16 | 0.00 | 0.16 | 0% | 0.58 | 75% | - | 3 | 0 | 30981378, 31069248, 31255831, 31262552, 31283581, 31283583, 31283585, 31283588, 31283589, 31283590, 31283593, 31283596, 31283597 |
+| K4-C24 | 2B | none | - | - | 128 | 0.33 | 0.16 | 0.00 | 0.16 | 0% | 0.58 | 75% | - | 3 | 0 | 30981378, 31069248, 31255831, 31262552, 31283581, 31283583, 31283585, 31283588, 31283589, 31283590, 31283593, 31283596, 31283597, 31545118, 31545119 |
 | K4-C24 | 2B | self | - | edit-v8 | 8 | 0.32 | 0.19 | 0.02 | 0.21 | 12% | 1.04 | 74% | 96% | 6 | 1 | 30981381 |
 | K4-C24 | 2B | rule_needle | - | rule-needle-v1 | 8 | 1.00 | 0.56 | 0.00 | 0.56 | 0% | 1.63 | 68% | - | 10 | 0 | 31255831 |
-| K4-C24 | 2B | peer_27b | 27B | edit-v8 | 16 | 0.99 | 0.42 | 7.09 | 7.52 | 94% | 8.56 | 73% | 0% | 5 | 85 | 30981378 |
+| K4-C24 | 2B | peer_27b | 27B | edit-v8 | 18 | 0.99 | 0.43 | 7.09 | 7.52 | 94% | 8.56 | 73% | 0% | 4 | 86 | 30981378, 31543130 |
 | K4-C24 | 2B | peer_27b | 27B | edit-v8+example | 8 | 0.38 | 0.50 | 6.65 | 7.16 | 93% | 8.05 | 66% | 0% | 5 | 25 | 31255829 |
 | K4-C24 | 2B | peer_27b | 27B | edit-v8+mustnote | 8 | 0.95 | 0.52 | 7.00 | 7.51 | 93% | 8.44 | 67% | 0% | 4 | 87 | 31255830 |
 | K4-C24 | 2B | peer_27b | 27B | edit-v8+para1 | 8 | 0.68 | 0.43 | 7.08 | 7.52 | 94% | 8.54 | 72% | 0% | 5 | 45 | 31283589 |
@@ -59,7 +59,7 @@ cached tokens (rounds 25-28). `none` ends at the budget wall after ~7 of 24-48 o
 | K8-C48 | 0.8B | peer_same | 0.8B | edit-v8 | 8 | 0.16 | 0.07 | 0.20 | 0.26 | 75% | 0.47 | 80% | 0% | 1 | 2 | 31069247 |
 | K8-C48 | 0.8B | peer_4b | 4B | edit-v8 | 8 | 0.17 | 0.23 | 3.76 | 4.00 | 94% | 4.60 | 78% | 0% | 2 | 10 | 31069250 |
 | K8-C48 | 0.8B | peer_9b | 9B | edit-v8 | 8 | 0.05 | 0.48 | 4.84 | 5.31 | 91% | 6.16 | 68% | 0% | 4 | 19 | 31069247 |
-| K8-C48 | 2B | none | - | - | 96 | 0.15 | 0.18 | 0.00 | 0.18 | 0% | 0.61 | 75% | - | 5 | 0 | 31069248, 31255831, 31262552, 31283581, 31283583, 31283585, 31283588, 31283589, 31283590, 31283593, 31283596, 31283597 |
+| K8-C48 | 2B | none | - | - | 112 | 0.15 | 0.18 | 0.00 | 0.18 | 0% | 0.61 | 75% | - | 5 | 0 | 31069248, 31255831, 31262552, 31283581, 31283583, 31283585, 31283588, 31283589, 31283590, 31283593, 31283596, 31283597, 31545118, 31545119 |
 | K8-C48 | 2B | rule_needle | - | rule-needle-v1 | 8 | 1.00 | 1.57 | 0.00 | 1.57 | 0% | 3.83 | 63% | - | 35 | 0 | 31255831 |
 | K8-C48 | 2B | peer_27b | 27B | edit-v8+example | 8 | 0.16 | 1.05 | 15.83 | 16.88 | 94% | 18.81 | 67% | 0% | 10 | 55 | 31255829 |
 | K8-C48 | 2B | peer_27b | 27B | edit-v8+mustnote | 8 | 0.40 | 1.04 | 20.18 | 21.22 | 95% | 23.18 | 68% | 0% | 9 | 245 | 31255830 |

diff --git a/CLAUDE.md b/CLAUDE.md
@@ -748,6 +748,17 @@ Timeline: weeks 1–2 tasks + harness + pilot on 0.8B; weeks 3–5 core grid; we
     31545121 `r31-g31-para3`, 31545122 `r31-g12-para4`, 31545123 `r31-g31-para4`.
   - A first submit attempt failed before reaching `sbatch`: the script had CRLF line endings after
     a Windows rewrite. Nothing was queued.
+  - All six done (exit 0; 12B 33-55 min, 31B 1.3-2.5 h; no rejected requests; settings checked in
+    each log; the 31B `para4` manager-log ERROR lines are the forced kill at shutdown). Smoke runs
+    31540580/1 and 31543129 moved to `runs_smoke/` (git-ignored) so seed-42 smoke episodes do not
+    pool into the ladder cells. Episode table now 3,066 rows.
+  - **G1-G5 all confirmed.** 31B K4 +0.60 / +0.57 / +0.54 (v8 / para3 / para4), K8 +0.57 / +0.33 /
+    +0.61. 12B K4 −0.02 / **+0.48** / −0.15, K8 +0.02 / **+0.38** / −0.07: the median rule hides a
+    strong `para3` cell (protective 0.85 / 0.83, 8/0 seeds). Pooled Spearman 0.70 (72 cells) / 0.64
+    (61). Gemma-only Spearman 0.93 (K4) / 0.49 (K8; `para3` cells hit the wall). Actor cap loops
+    only 1 of 96 Gemma episodes. Up to 0.52 of a cell's events unparseable (12B v8 K8). GPU-s per
+    episode, 31B: 105-320 (K4), 459-806 (K8). `results.md` finding 10; mechanism figure redrawn with
+    Gemma in magenta.
 - Termination audit (2026-10-30, no GPU; `scripts/termination_audit.py` →
   `docs/tables/termination_needle.md`, after a literature scan and two adversarial reviews): 38/120
   managed 27B-actor Needle episodes end at `max_steps`, 22 in a cap loop; 100/120 have a capped actor
